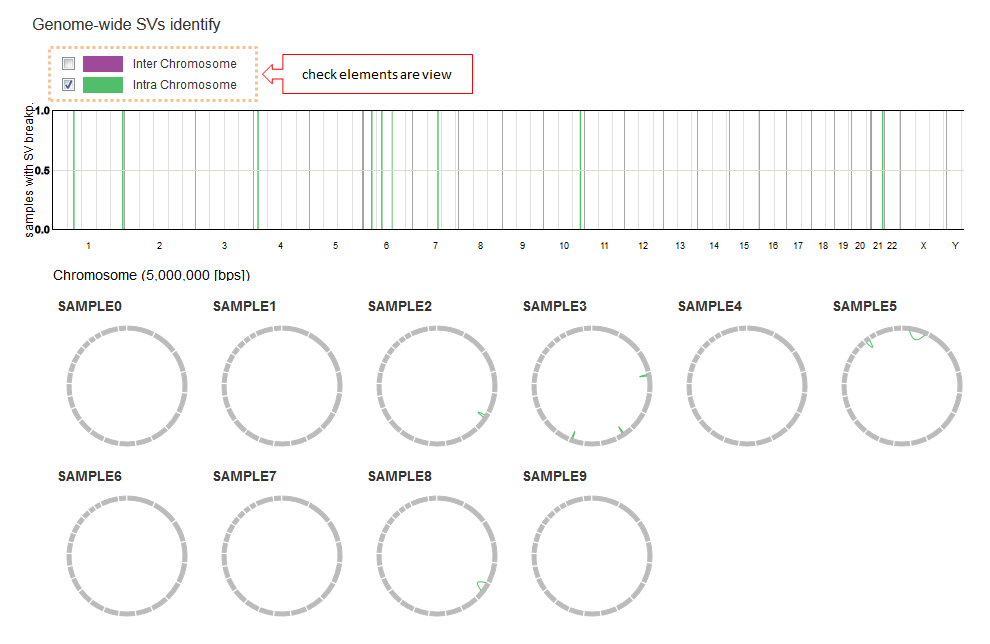
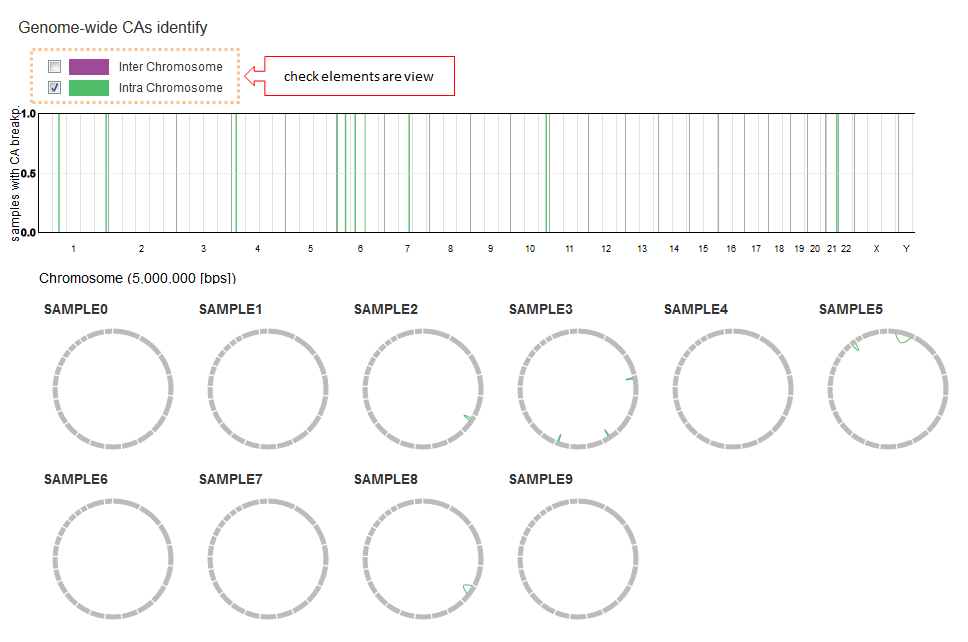
rename sv to ca

diff --git a/config_sv.rst b/config_sv.rst
@@ -1,6 +1,8 @@
 *******************************
-Config 記述方法(SV)
+Config 記述方法(CA)
 *******************************
+
+全設定項目は `こちら <./config.html#ca>`_ 
 
 列と設定の対応
 -----------------------------
@@ -23,7 +25,7 @@ col_opt_group         text             ×           grouping of mutaions
 
 .. note::
   
-  col_opt_groupはSVのグルーピングに使用します。
+  col_opt_groupはstackのグルーピングに使用します。
   
   未指定の場合、intra/inter chromosomeでグルーピングします。
   
@@ -59,7 +61,7 @@ col_opt_group         text             ×           grouping of mutaions
 | 
 
 
-SVで表示するchromosomeを限定する
+表示するchromosomeを限定する
 ---------------------------------
 
 configファイルで次の項目を編集してください。
@@ -79,7 +81,7 @@ configファイルで次の項目を編集してください。
 ``pa_plot {input files} {output directory} {title} --config_file {config file}``
 
 
-SVでヒト以外のゲノムを使用する
+ヒト以外のゲノムを使用する
 -------------------------------
 
 genomeサイズが入力されたファイルが必要です。

diff --git a/quick_start.rst b/quick_start.rst
@@ -77,11 +77,13 @@ HTMLファイルができていますか？
         ├ DUMMY
         │   ├ graph_mut.html    <--- mutation-matrix グラフ
         │   ├ graph_qc.html     <--- qc グラフ
-        │   └ graph_sv.html     <--- sv グラフ
+        │   └ graph_ca.html     <--- ca グラフ
         │
-        ├ js          <--- この3つのディレクトリはHTMLファイルを表示するために必要です。消さないでください。
+        ├ js          <--- この4つのディレクトリはHTMLファイルを表示するために必要です。消さないでください。
+        ├ layout
         ├ lib
         ├ style
+        |
         └ index.html             <--- このファイルを web ブラウザで開いてください。
 
 
@@ -97,7 +99,7 @@ HTMLファイルができていますか？
 .. image:: image/qc_dummy.png
   :scale: 100%
 
-| **SV グラフ**
+| **CA グラフ**
 
 .. image:: image/sv_dummy.png
   :scale: 100%

diff --git a/style.rst b/style.rst
@@ -82,7 +82,7 @@
 .. code-block:: bash
 
   cd {paplotをインストールしたディレクトリ}
-  pa_plot qc "example/qc/*.csv" ./tmp STYLE --config_file example/example.cfg
+  pa_plot qc "example/qc/*.csv" ./tmp style_test --config_file example/example.cfg
 
 
 1-4. 出力されたファイルを変更する
@@ -95,11 +95,11 @@
 .. code-block:: bash
 
   ./tmp
-    ├ STYLE
-    │   ├ graph_qc.html
-    │   └ graph_sv.html
+    ├ style_test
+    │   └ graph_qc.html
     │
     ├ js
+    ├ layout
     ├ lib
     └ style
         ├ default.js     <--- デフォルト
@@ -127,8 +127,8 @@
   // style of genome-wide bar plot
   style_sv_bar = {
       // title's text options
-      title_top: "Genome-wide SVs identify",
-      title_y: "samples with SV breakp.",
+      title_top: "Genome-wide CAs identify",
+      title_y: "samples with CA breakp.",
       title_x: "Chromosome",
       
       border_x_main_color: "#E0E0E0",

diff --git a/command.rst b/command.rst
@@ -15,7 +15,7 @@ pa_plot コマンド
 **必須**
 
 :{qc, sv, mutation}:
-  paplotのサブコマンドです。どちらかを選択します。
+  paplotのサブコマンドです。いづれかを選択します。(svはCAグラフを出力します)
 
 :input:
   入力ファイルです。ワイルドカード (``*``) を使用して複数指定することができます。最初と最後に ``"`` をつけてください。
@@ -47,7 +47,7 @@ pa_plot コマンド
     ├ {project_name}
     │   ├ graph_mut.html    <--- mutation-matrix グラフ
     │   ├ graph_qc.html     <--- qc グラフ
-    │   └ graph_sv.html     <--- sv グラフ
+    │   └ graph_ca.html     <--- ca グラフ
     │
     ├ js          <--- この3つのディレクトリはHTMLファイルを表示するために必要です。消さないでください。
     ├ lib

diff --git a/about.rst b/about.rst
@@ -20,16 +20,16 @@
 作成できるグラフ
 -------------------
 
-1. QC グラフ
+1. QC (Quality Control) グラフ
 
 bamファイルの品質をグラフに表示します。
 
 .. image:: image/qc_dummy.png
   :scale: 100%
 
-2. SV グラフ
+2. CA (Chromosomal Aberration) グラフ
 
-検出したstructural variation (SV) について棒グラフと円形のグラフで表示します。
+Structural Variation (SV) 等、Chromosome間の変異を円形のplotで可視化し、棒グラフでその分布を表示します。
 
 .. image:: image/sv_dummy.png
   :scale: 100%

diff --git a/config_mut.rst b/config_mut.rst
@@ -2,6 +2,8 @@
 Config 記述方法(mutation-matrix)
 ************************************************
 
+全設定項目は `こちら <./config.html#mutation-matrix>`_ 
+
 -----------------------------
 列と設定の対応
 -----------------------------

diff --git a/config_qc.rst b/config_qc.rst
@@ -2,6 +2,8 @@
 Config 記述方法(QC)
 *******************************
 
+全設定項目は `こちら <./config.html#qc>`_ 
+
 列と設定の対応
 -----------------------------
 
